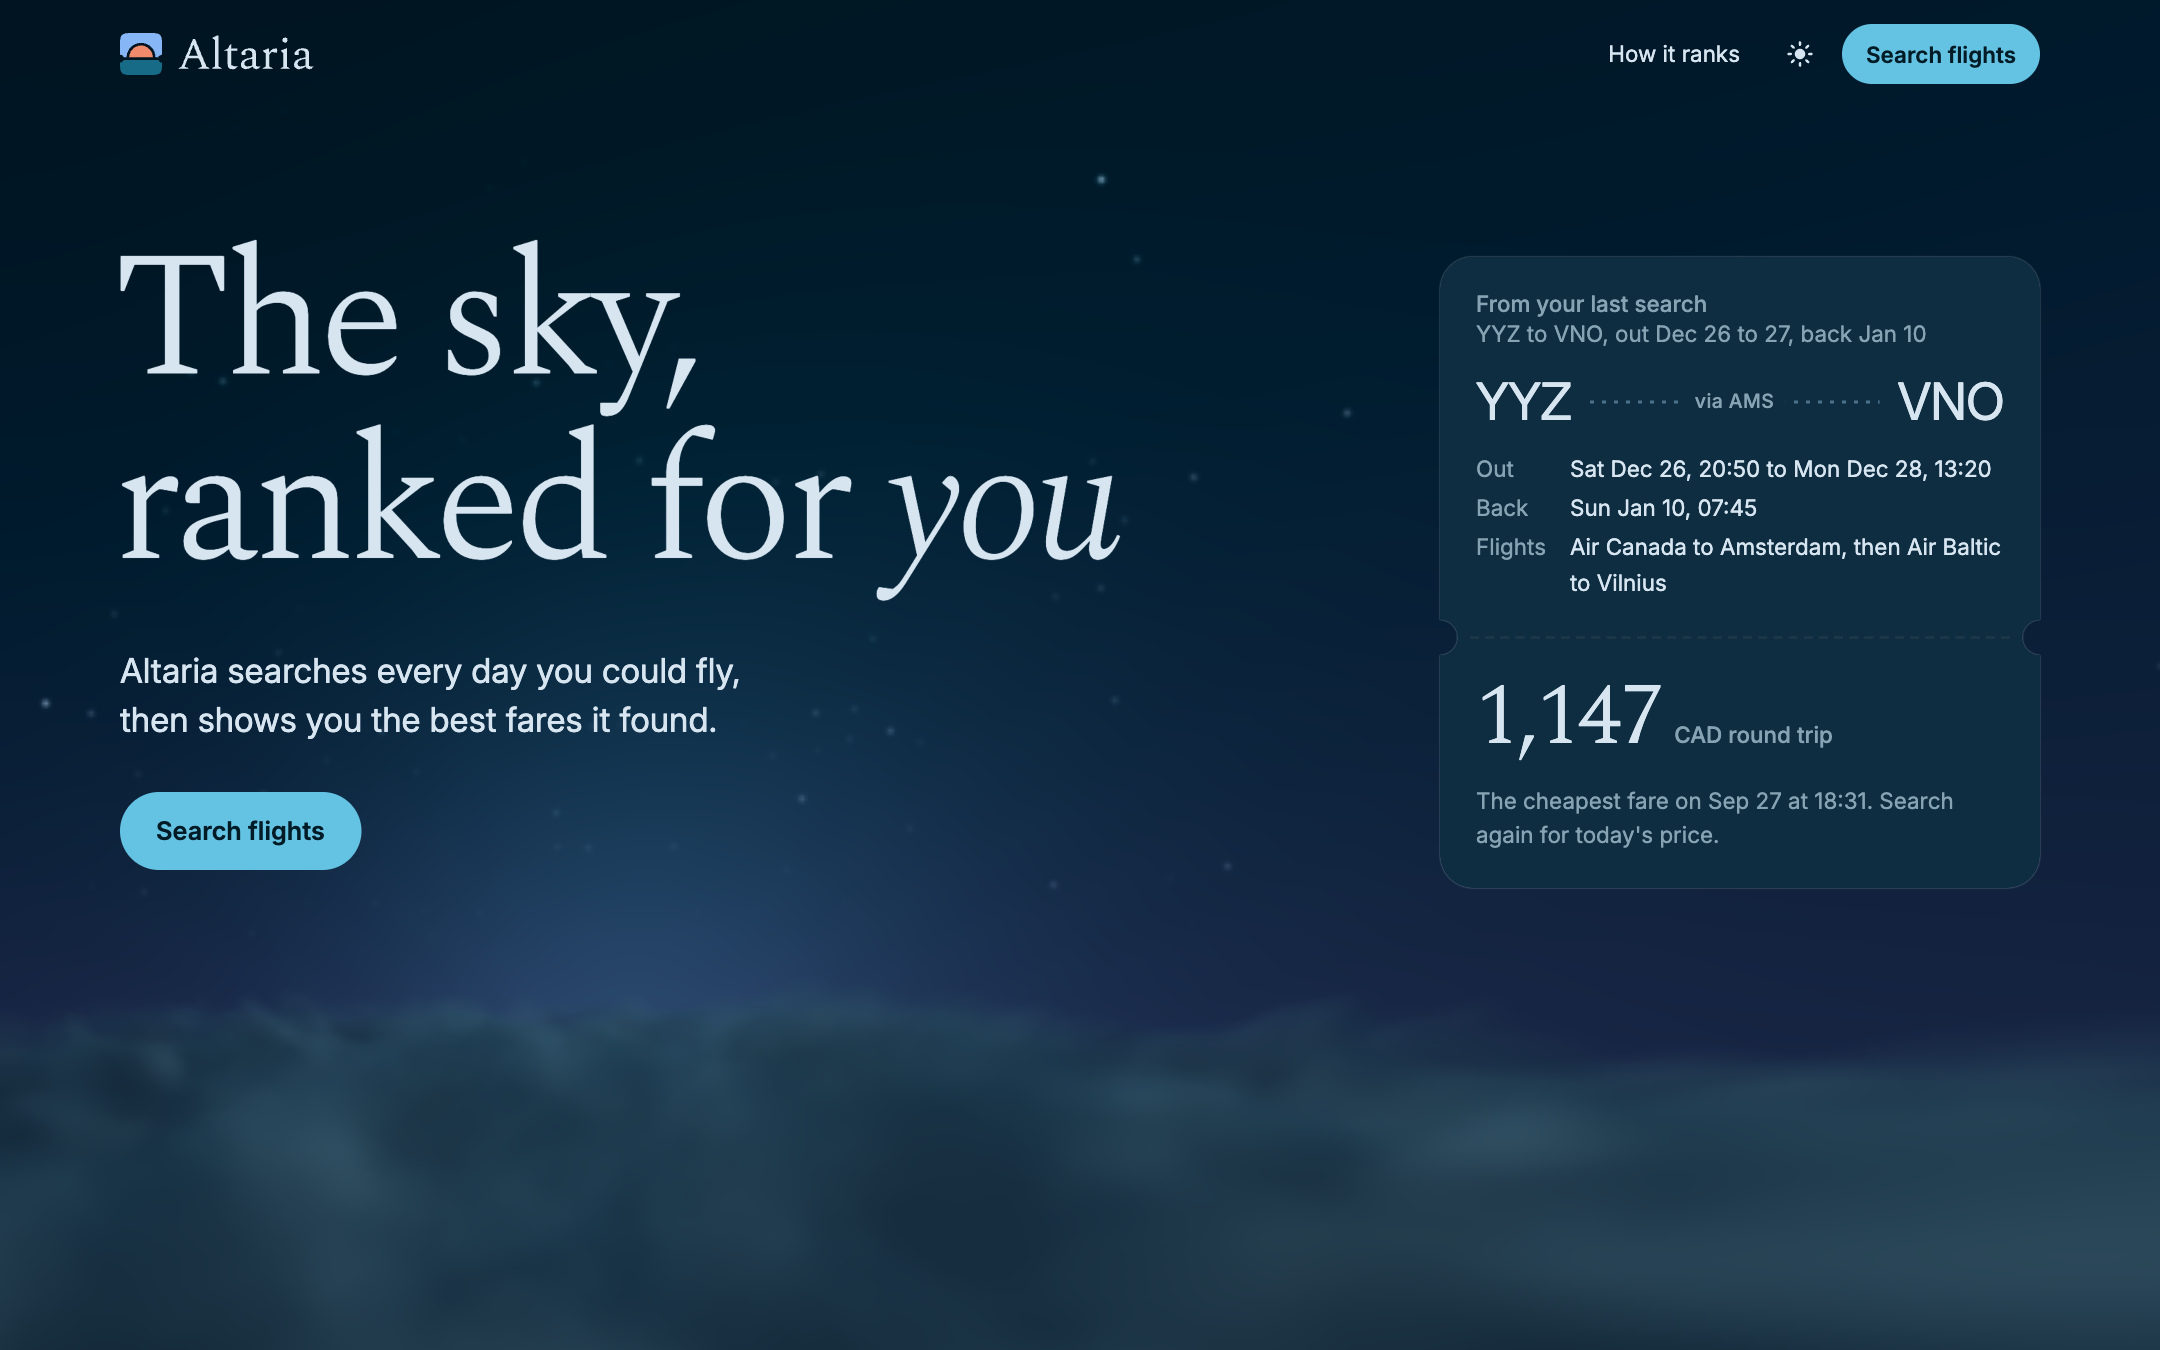
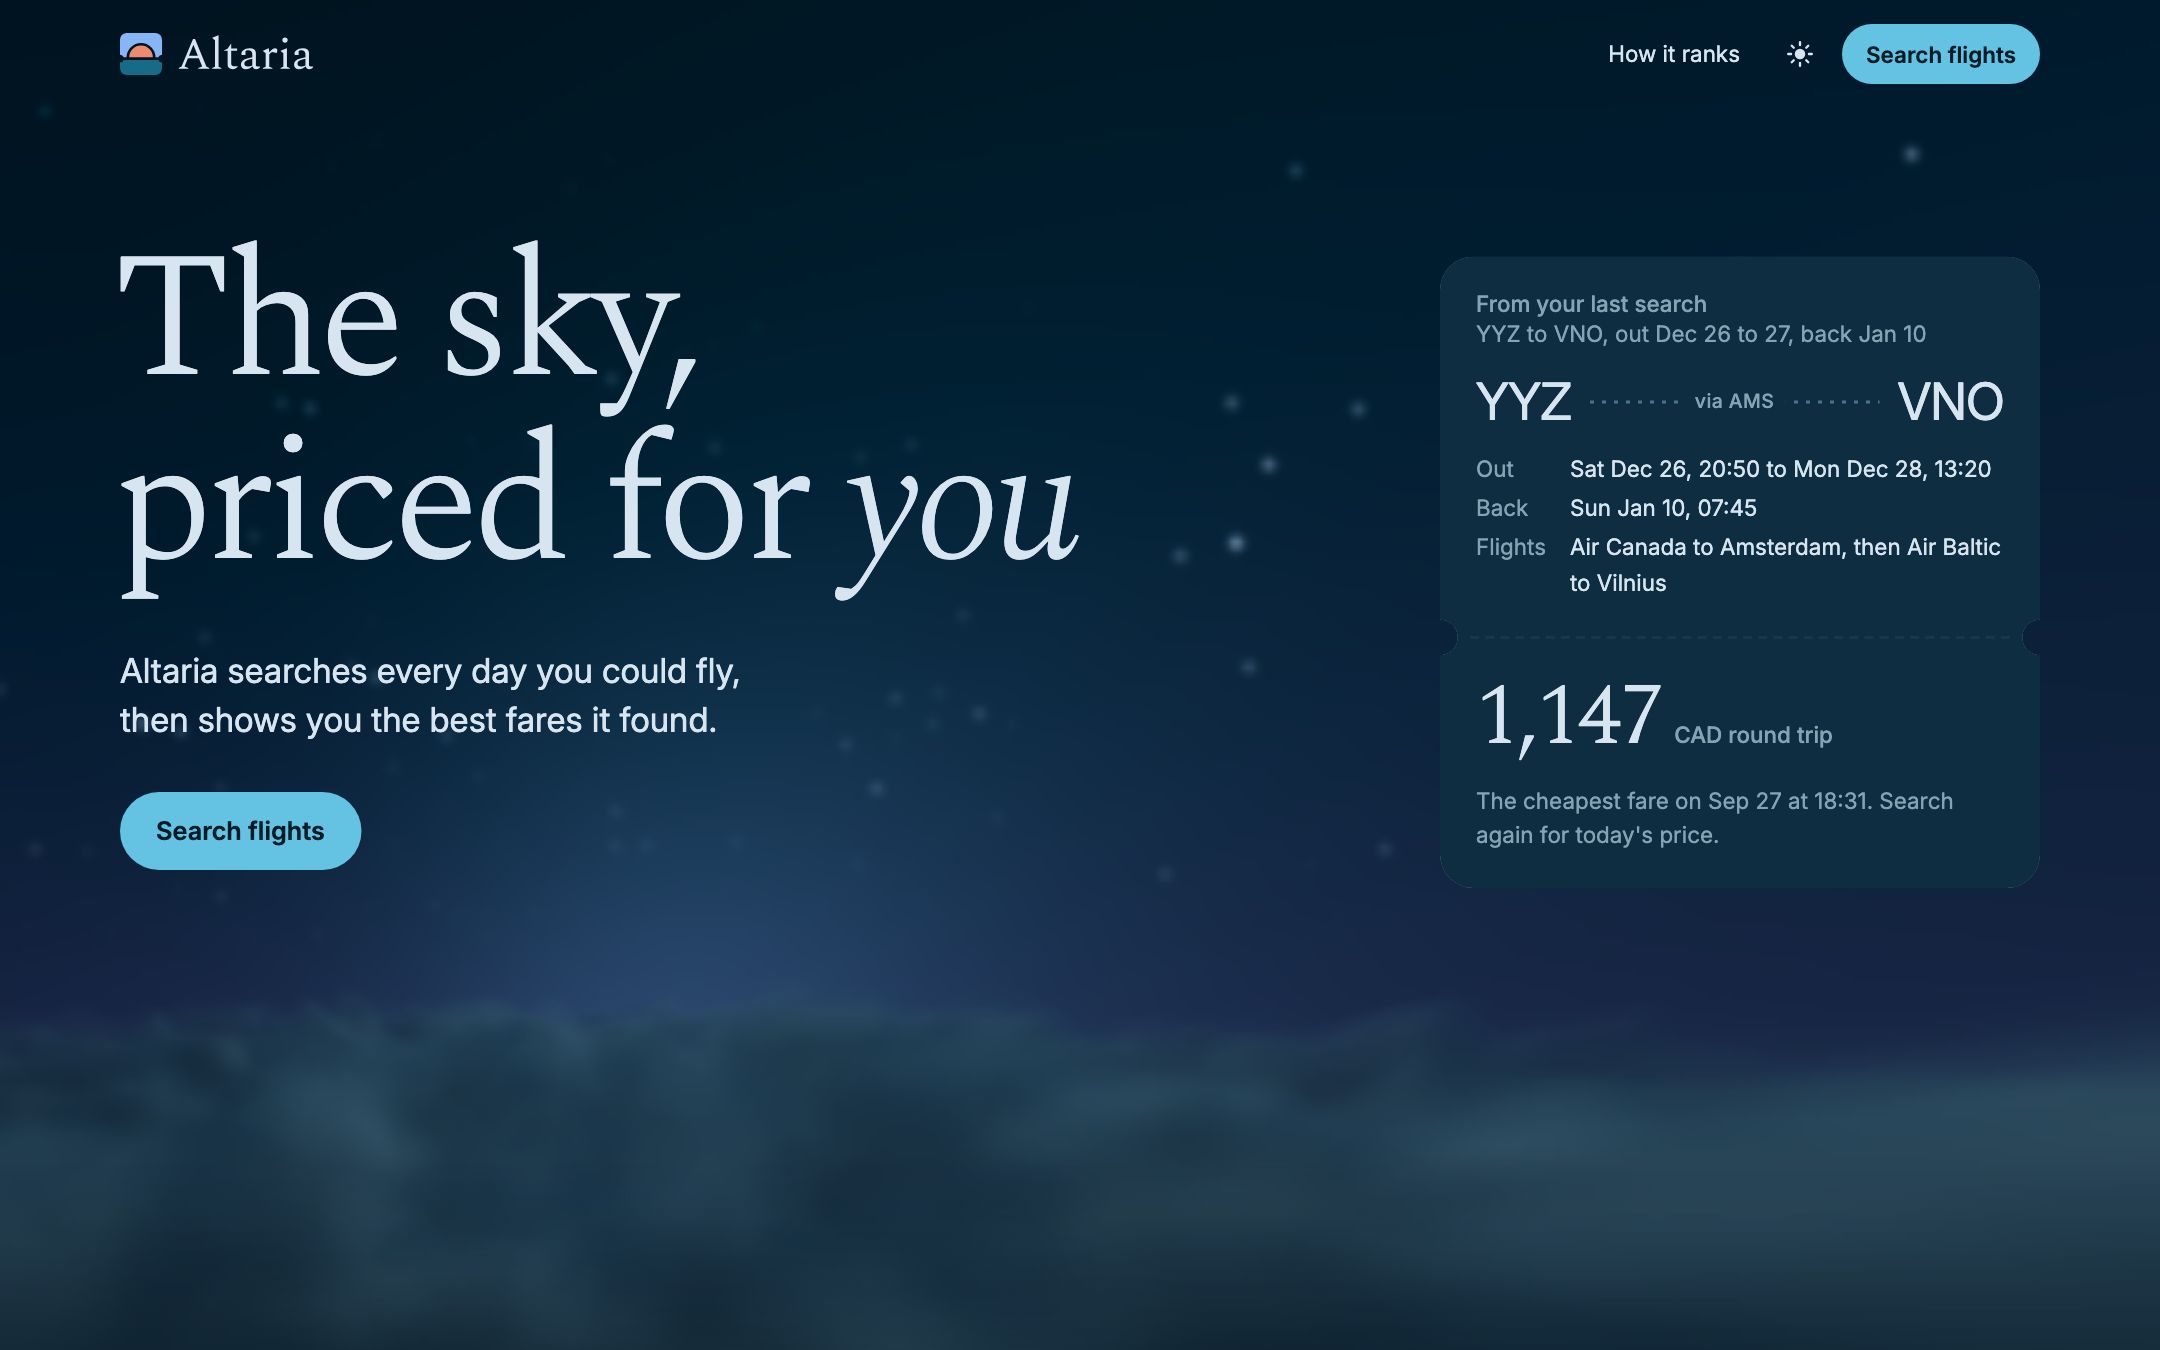
Change tagline to "The sky, priced for you"

Changed region(s): [[0.062, 0.3111, 0.5273, 0.4356], [0.062, 0.1867, 0.0931, 0.2178]]

diff --git a/web/src/Hero.jsx b/web/src/Hero.jsx
@@ -54,7 +54,7 @@ export default function Hero({ onBacking }) {
 
         <div className="hero-copy">
           {/* Two lines set by hand, each rising out of its own mask on load. */}
-          <h1 id="hero-title"><span className="line"><span>The sky,</span></span> <span className="line"><span>ranked for&nbsp;<em>you</em></span></span></h1>
+          <h1 id="hero-title"><span className="line"><span>The sky,</span></span> <span className="line"><span>priced for&nbsp;<em>you</em></span></span></h1>
           <p className="lede">{`${NAME} searches every day you could fly, then shows you the best fares it found.`}</p>
           <a className="btn" href="#search">Search flights</a>
         </div>

diff --git a/web/src/styles/sections/hero.css b/web/src/styles/sections/hero.css
@@ -1,7 +1,7 @@
 /* The hero (Hero.jsx): flying above the clouds. */
 .hero {
   --p: 0;   /* the scroll scene's progress, 0 to 1, written by Hero.jsx */
-  /* The headline's size: as large as the scale allows, but the longer line, "ranked for you" (5.8em wide in
+  /* The headline's size: as large as the scale allows, but the longer line, "priced for you" (5.5em wide in
      Spectral Light at this tracking), always fits the column, even with a large text setting; remeasure if the
      words change. */
   --h1: min(var(--t-hero), (100vw - 2 * var(--margin)) / 6);

diff --git a/README.md b/README.md
@@ -1,10 +1,10 @@
 # Altaria
 
-A round-trip flight search, ranked for you. It prices every pair of dates you give it and sorts round trips by price, then by flight time. Nothing is sponsored, and nothing is estimated: every fare on the page came back from a search.
+A round-trip flight search, priced for you. It prices every pair of dates you give it and sorts round trips by price, then by flight time. Nothing is sponsored, and nothing is estimated: every fare on the page came back from a search.
 
 Try it at [altaria.macwell.workers.dev](https://altaria.macwell.workers.dev), or run it yourself.
 
-![The hero: "The sky, ranked for you" over a sky of clouds, with a boarding pass holding the cheapest fare of the last search](docs/hero.png)
+![The hero: "The sky, priced for you" over a sky of clouds, with a boarding pass holding the cheapest fare of the last search](docs/hero.png)
 
 ## What it does
 
